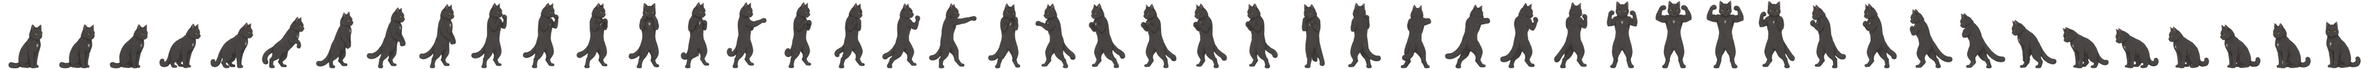
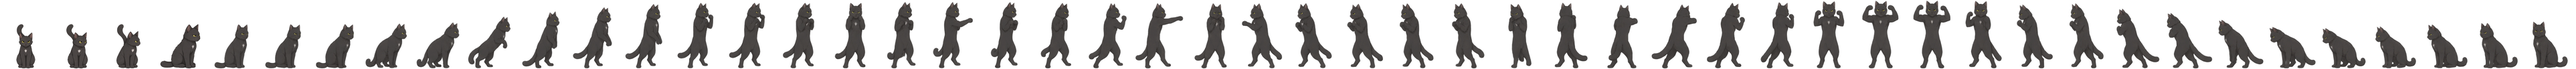
d\hhhhhhhhhhh

diff --git a/src/components/TikiBox.tsx b/src/components/TikiBox.tsx
@@ -1,15 +1,23 @@
 import { useMemo } from "react";
 
 /**
- * Tiki stands up, shadow boxes, flexes for the camera, and sits back down.
+ * Tiki turns side on, stands up, shadow boxes, flexes, and sits back down.
  *
- * 46 illustrated frames, played in THREE phases at different rates. One rate
+ * 50 frames: 4 turnaround frames then the 46-frame routine. The turnaround
+ * bridges the pose TikiWake ends on (sitting, facing you) to the one the
+ * routine starts from (sitting, side on), which was a visible jump before.
+ *
+ * The turnaround artwork drew the front view 1.21x taller than the side view.
+ * A cat does not grow as it turns, so each of those frames was rescaled to a
+ * constant cat height before being spliced in.
+ *
+ * Played in THREE phases at different rates. One rate
  * does not suit the whole routine: the boxing wants pace, the flex wants to be
  * held long enough to register.
  *
- *   0-30   standing up and shadow boxing        base speed
- *   31-33  the double bicep, facing you         much slower, this is the joke
- *   34-45  turning back and sitting down        base speed
+ *   0-34   turning to face side on, standing up, shadow boxing   base speed
+ *   35-37  the double bicep, facing you        much slower, this is the joke
+ *   38-49  turning back and sitting down       base speed
  *
  * The flex frames were identified by measuring horizontal symmetry: the
  * front-facing poses are near mirror-symmetric (0.87 to 0.97) while every side
@@ -19,9 +27,9 @@ import { useMemo } from "react";
  */
 
 const SHEET = "/tiki-box.png";
-const TOTAL = 46;
-const FLEX_START = 31;
-const FLEX_END = 34;      // exclusive
+const TOTAL = 50;
+const FLEX_START = 35;    // shifted by the 4 turnaround frames
+const FLEX_END = 38;      // exclusive
 const CELL_W = 77;
 const CELL_H = 104;
 
@@ -45,7 +53,7 @@ export default function TikiBox({
   const uid = useMemo(() => `tb${Math.random().toString(36).slice(2, 8)}`, []);
   const w = Math.round((CELL_W / CELL_H) * size);
 
-  const nBox = FLEX_START;                 // 31
+  const nBox = FLEX_START;                 // 35
   const nFlex = FLEX_END - FLEX_START;     // 3
   const nSit = TOTAL - FLEX_END;           // 12
 
